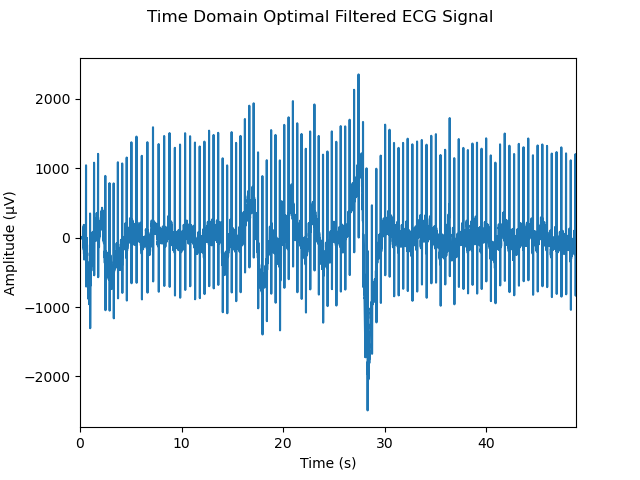
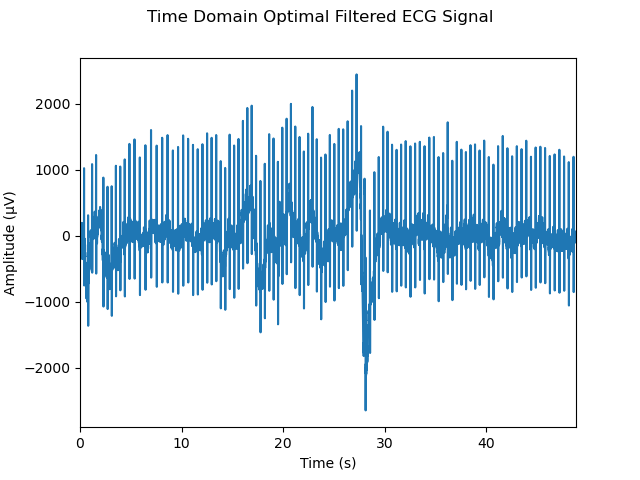
fixedfilters

Changed region(s): [[0.0312, 0.1562, 0.9062, 0.875], [0.0312, 0.75, 0.125, 0.8125], [0.0625, 0.1875, 0.125, 0.25]]

diff --git a/main.py b/main.py
@@ -175,10 +175,12 @@ def createWindowFilter(notches, sample_rate, notch_width, num_taps):
 
     cutoff_1 = [(f1 - width), (f1 + width)]
     cutoff_2 = [(f2 - width), (f2 + width)]
+    cutoff = [(f1 - width), (f1 + width), (f2 - width), (f2 + width)]
     filter_1 = firwin(numtaps=num_taps, cutoff=cutoff_1, window=window, fs=sample_rate)
     filter_2 = firwin(numtaps=num_taps, cutoff=cutoff_2, window=window, fs=sample_rate)
+    filter_overall =  firwin(numtaps=num_taps, cutoff=cutoff, window=window, fs=sample_rate)
     
-    return filter_1, filter_2
+    return filter_1, filter_2, filter_overall
 
 
 
@@ -186,18 +188,23 @@ def createOptimalFilter(notches, sample_rate, notch_width, gains, num_taps):
     """Compute and return the bandstop  optimal filter arrays for the specified notches. Adjusting the window type and band width changes attenuation."""
 
     f1, f2 = notches
-    width = notch_width / 0.8 #One sided 3dB bandwidth, in Hz
-    #gain = np.power(10, np.array(gains)/20)
-    weight = [0.7, 1.2, 0.7]
-    
+    width = notch_width / 1.3 #One sided 3dB bandwidth, in Hz - 5.0 / 1.3
+    stop = 12 #Stop band weighting - 12
+    pass_ = 1 #Passband weighting - 1
+    weight = [pass_, stop, pass_] #Isolated filter weighting
+    weight_overall = [pass_, stop, pass_, stop, pass_] #Overall filter weighting
+    gains_overall = [1, 0, 1, 0, 1] #Indicates stop and passband locations in the specified bands
+    alpha = 0.59 #Minimal Spacing of notch to allow convergence
 
-    band_1= [0,  f1 - width, f1 - 1, f1 + 1, f1 + width, sample_rate / 2] #Pad the stop band as the method doesnt convege well otherwise
-    band_2= [0, f2 - width, f2 - 1, f2 + 1, f2 + width, sample_rate / 2]
+    band_1= [0,  f1 - width, f1 - alpha, f1 + alpha, f1 + width, sample_rate / 2] #Pad the stop band as the method doesnt convege well otherwise
+    band_2= [0, f2 - width, f2 - alpha, f2 + alpha, f2 + width, sample_rate / 2]
+    bands = [0,  f1 - width, f1 - alpha, f1 + alpha, f1 + width, f2 - width, f2 - alpha, f2 + alpha, f2 + width, sample_rate / 2] 
 
     filter_1 = remez(numtaps=num_taps, bands=band_1, desired=gains, fs=sample_rate, weight=weight)
     filter_2 = remez(numtaps=num_taps, bands=band_2, desired=gains, fs=sample_rate, weight=weight)
+    filter_overall = remez(numtaps=num_taps, bands=bands, desired=gains_overall, fs=sample_rate, weight=weight_overall)
     
-    return filter_1, filter_2
+    return filter_1, filter_2, filter_overall
 
 
 
@@ -205,27 +212,34 @@ def createFreqSamplingFilter(notches, sample_rate, notch_width, gains, num_taps)
     """Compute and return the bandstop frequency sampling filter arrays for the specified notches. Adjusting the window type and band width changes attenuation."""
 
     f1, f2 = notches
-    window_type = ('kaiser', 5)
-    width = notch_width / 0.5 #One sided 3dB bandwidth, in Hz
+    window_type = ('kaiser', 4)
+    width = notch_width / 1.4 #One sided 3dB bandwidth, in Hz
+    alpha = width - 0.01 #Added transition points to narrow the band further
+    omega = width - 0.1 
     #gain = np.power(10, np.array(gains)/20.0)
+    gains = [1, 1, 0, 0, 0, 0, 0, 1, 1]
+    gains_overall = [1, 1, 0, 0, 0, 0, 0, 1, 1, 0, 0, 0, 0, 0, 1, 1]
 
-    freq_1 = [0, f1 - width, f1, f1 + width, sample_rate / 2]
-    freq_2 = [0, f2 - width, f2, f2 + width, sample_rate / 2]
+    freq_1 = [0, f1 - width, f1 - alpha, f1 - omega, f1, f1 + omega, f1 + alpha, f1 + width, sample_rate / 2]
+    freq_2 = [0, f2 - width, f2 - alpha, f2 - omega, f2, f2 + omega, f2 + alpha, f2 + width, sample_rate / 2]
+    freq = [0, f1 - width, f1 - alpha, f1 - omega, f1, f1 + omega, f1 + alpha, f1 + width, f2 - width, f2 - alpha, f2 - omega, f2, f2 + omega, f2 + alpha, f2 + width, sample_rate / 2]
 
     filter_1 = firwin2(numtaps=num_taps, freq=freq_1, gain=gains, fs=sample_rate, window=window_type)
     filter_2 = firwin2(numtaps=num_taps, freq=freq_2, gain=gains, fs=sample_rate, window=window_type)
+    filter_overall = firwin2(numtaps=num_taps, freq=freq, gain=gains_overall, fs=sample_rate, window=window_type)
     
-    return filter_1, filter_2
+    return filter_1, filter_2, filter_overall
 
 
 
-def applyFIRFilters(filter_1, filter_2, samples):
+def applyFIRFilters(filter_1, filter_2, filter_overall, samples):
     """Pass data through two cascaded FIR filters and return the result after each filter"""
 
-    half_freq_filtered = lfilter(filter_1, 1, samples)
-    full_freq_filtered = lfilter(filter_2, 1, half_freq_filtered)
+    half_filtered = lfilter(filter_1, 1, samples)
+    full_filtered = lfilter(filter_2, 1, half_filtered)
+    overall_filtered = lfilter(filter_overall, 1, samples)
 
-    return half_freq_filtered, full_freq_filtered
+    return half_filtered, full_filtered, overall_filtered
 
 
 
@@ -350,44 +364,44 @@ def main():
     notched_numerator, notched_denominator = combineFilters(notch_num_1, notch_denom_1, notch_num_2, notch_denom_2)  # Combine the two IIR notch filters
 
     # Create and apply FIR filters to data
-    window_filter_1, window_filter_2 = createWindowFilter(cutoff, sample_rate, notch_width, num_FIR_taps) # Calculate window filter coefficents
-    half_windowed_samples, full_windowed_samples = applyFIRFilters(window_filter_1, window_filter_2, samples) # Apply window filter to data
+    window_filter_1, window_filter_2, window_filter_overall = createWindowFilter(cutoff, sample_rate, notch_width, num_FIR_taps) # Calculate window filter coefficents
+    half_windowed_samples, full_windowed_samples, overall_windowed_samples = applyFIRFilters(window_filter_1, window_filter_2, window_filter_overall, samples) # Apply window filter to data
     win_time = getTimeData(sample_rate, len(full_windowed_samples)) # Create a time array based on window filtered data
-    win_frequency, win_freq_data = calcFreqSpectrum(full_windowed_samples, sample_rate) # Calculate frequency of the window IIR filtered ECG data
+    win_frequency, win_freq_data = calcFreqSpectrum(overall_windowed_samples, sample_rate) # Calculate frequency of the window IIR filtered ECG data
 
-    optimal_filter_1, optimal_filter_2 = createOptimalFilter(cutoff, sample_rate, notch_width, optimal_gains, num_FIR_taps)
-    half_optimal_samples, full_optimal_samples = applyFIRFilters(optimal_filter_1, optimal_filter_2, samples)
+    optimal_filter_1, optimal_filter_2, optimal_filter_overall = createOptimalFilter(cutoff, sample_rate, notch_width, optimal_gains, num_FIR_taps)
+    half_optimal_samples, full_optimal_samples, overall_optimal_samples = applyFIRFilters(optimal_filter_1, optimal_filter_2, optimal_filter_overall, samples)
     opt_time = getTimeData(sample_rate, len(full_optimal_samples)) # Create a time array based on optimal filtered data
-    opt_frequency, opt_freq_data = calcFreqSpectrum(full_optimal_samples, sample_rate) # Calculate frequency of the window IIR filtered ECG data
+    opt_frequency, opt_freq_data = calcFreqSpectrum(overall_optimal_samples, sample_rate) # Calculate frequency of the window IIR filtered ECG data
     
-    freq_sampling_filter_1, freq_sampling_filter_2  = createFreqSamplingFilter(cutoff, sample_rate, notch_width, freq_gains, num_FIR_taps)
-    half_freq_samples, full_freq_samples = applyFIRFilters(freq_sampling_filter_1, freq_sampling_filter_2, samples)
+    freq_sampling_filter_1, freq_sampling_filter_2, freq_filter_overall  = createFreqSamplingFilter(cutoff, sample_rate, notch_width, freq_gains, num_FIR_taps)
+    half_freq_samples, full_freq_samples, overall_freq_samples = applyFIRFilters(freq_sampling_filter_1, freq_sampling_filter_2, freq_filter_overall, samples)
     freq_sampling_time = getTimeData(sample_rate, len(full_freq_samples)) # Create a time array based on optimal filtered data
-    freq_s_frequency, freq_s_freq_data = calcFreqSpectrum(full_freq_samples, sample_rate) # Calculate frequency of the window IIR filtered ECG data
+    freq_s_frequency, freq_s_freq_data = calcFreqSpectrum(overall_freq_samples, sample_rate) # Calculate frequency of the window IIR filtered ECG data
 
     # Plot unfiltered data
     ECG = plotECG(samples, base_time) # Plot a time domain graph of the ECG data
     ECGSpectrum = plotECGSpectrum(base_freq, base_freq_data) # Plot the frequency spectrum of the ECG data
 
-    # # Plot IIR notch filtered data
+    # Plot IIR notch filtered data
     IIRNotchECG = plotIIRNotchECG(notched_samples, notch_time) # Plot a time domain graph of the IIR notch filtered ECG data
     IIRNotchECGSpectrum = plotIIRNotchECGSpectrum(notch_frequency, notch_freq_data) # Plot the frequency spectrum of the IIR notch filtered ECG data
     IIRNotchFilterResponse = plotIIRNotchFilterResponse(notched_numerator, notched_denominator, sample_rate) # Plot the frequency response of the notch filter
 
-    # # Plot window filtered data
-    WindowedECG = plotWindowedECG(full_windowed_samples, win_time) # Plot a time domain graph of the window filtered ECG data
+    # Plot window filtered data
+    WindowedECG = plotWindowedECG(overall_windowed_samples, win_time) # Plot a time domain graph of the window filtered ECG data
     WindowedECGSpectrum = plotWindowedECGSpectrum(win_frequency, win_freq_data) # Plot the frequency spectrum of the window filtered ECG data
-    WindowFilterResponse = plotWindowFilterResponse(convolve(window_filter_1, window_filter_2), sample_rate) # Plot the frequency response of the window filter
+    WindowFilterResponse = plotWindowFilterResponse(window_filter_overall, sample_rate) # Plot the frequency response of the window filter
 
     #Plot optimal filtered data
-    OptimalECG = plotOptimalECG(full_optimal_samples, opt_time) # Plot a time domain graph of the window filtered ECG data
+    OptimalECG = plotOptimalECG(overall_optimal_samples, opt_time) # Plot a time domain graph of the window filtered ECG data
     OptimalECGSpectrum = plotOptimalECGSpectrum(opt_frequency, opt_freq_data) # Plot the frequency spectrum of the window filtered ECG data
-    OptimalFilterResponse = plotOptimalFilterResponse(convolve(optimal_filter_1, optimal_filter_2), sample_rate) # Plot the frequency response of the window filter
+    OptimalFilterResponse = plotOptimalFilterResponse(optimal_filter_overall, sample_rate) # Plot the frequency response of the window filter
 
     #Plot Frequency Sampling filtered data
-    FrequencySamplingECG = plotFrequencySampledECG(full_freq_samples, freq_sampling_time) # Plot a time domain graph of the window filtered ECG data
+    FrequencySamplingECG = plotFrequencySampledECG(overall_freq_samples, freq_sampling_time) # Plot a time domain graph of the window filtered ECG data
     FrequencySamplingECGSpectrum = plotFrequencySampledECGSpectrum(freq_s_frequency, freq_s_freq_data) # Plot the frequency spectrum of the window filtered ECG data
-    FrequencySamplingFilterResponse = plotFrequencySampledFilterResponse(convolve(freq_sampling_filter_1, freq_sampling_filter_2), sample_rate) # Plot the frequency response of the window filter
+    FrequencySamplingFilterResponse = plotFrequencySampledFilterResponse(freq_filter_overall, sample_rate) # Plot the frequency response of the window filter
 
     # Save figures
     figures = [ECG, ECGSpectrum, IIRNotchECG, IIRNotchECGSpectrum, IIRNotchFilterResponse, WindowedECG, WindowedECGSpectrum,
@@ -401,17 +415,17 @@ def main():
     second_notched_noise_variance = calculateNoiseVariance(half_notched_samples, notched_samples)  # Calculate the variance of the noise removed by the second IIR notch filter
 
     # Calculate the variance of window filtered data
-    window_noise_variance = calculateNoiseVariance(samples, full_windowed_samples)  # Calculate the variance of the noise removed by the 
+    window_noise_variance = calculateNoiseVariance(samples, overall_windowed_samples)  # Calculate the variance of the noise removed by the 
     first_window_noise_variance = calculateNoiseVariance(samples, half_windowed_samples)  # Calculate the variance of the noise removed by the 
     second_window_noise_variance = calculateNoiseVariance(half_windowed_samples, full_windowed_samples)  # Calculate the variance of the noise removed by the 
 
     # Calculate the variance of optimal filtered data
-    optimal_noise_variance = calculateNoiseVariance(samples, full_optimal_samples)  # Calculate the variance of the noise removed by the 
+    optimal_noise_variance = calculateNoiseVariance(samples, overall_optimal_samples)  # Calculate the variance of the noise removed by the 
     first_optimal_noise_variance = calculateNoiseVariance(samples, half_optimal_samples)  # Calculate the variance of the noise removed by the 
     second_optimal_noise_variance = calculateNoiseVariance(half_optimal_samples, full_optimal_samples)  # Calculate the variance of the noise removed by the 
 
     # Calculate the variance of frequency sampling filtered data
-    freq_sampling_noise_variance = calculateNoiseVariance(samples, full_freq_samples)  # Calculate the variance of the noise removed by the 
+    freq_sampling_noise_variance = calculateNoiseVariance(samples, overall_freq_samples)  # Calculate the variance of the noise removed by the 
     first_freq_sampling_noise_variance = calculateNoiseVariance(samples, half_freq_samples)  # Calculate the variance of the noise removed by the 
     second_freq_sampling_noise_variance = calculateNoiseVariance(half_freq_samples, full_freq_samples)  # Calculate the variance of the noise removed by the
 
